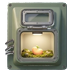
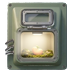
Pods masters pass 100: Home's bed cut from the Vivarium, ready chamber graded

Changed region(s): [[0.1944, 0.4444, 0.6667, 0.7778]]

diff --git a/art/station-masters/pods/tools/homefix.py b/art/station-masters/pods/tools/homefix.py
@@ -1,0 +1,31 @@
+"""Pass 100: the Station art director's two hand fixes on Home's column (second sheet, 7b37a705; no paid call). Run after tools/homecolumn.py.
+1. home-bed-{day,dusk,night}-192x56: cut from the SIGNED idle-vivarium-{day,dusk,night}-1024x568 ground band, a 192x56 moss hollow, edges feathered to clear (a superellipse alpha, 16 px feather). The art director said "the spot where the whole's bed sits": the layout's with-you bed (screen (520, 472), 128x56) maps to painting (560, 484), but there the painting is the pool and its rocks, not moss, so the cut is the clear moss on the right of the ground band, centred on (848, 480), painting rect (752, 452, 192, 56); the choice of spot is the art director's to move. Replaces the bowl.
+2. home-chamber-ready-72x72: the chamber's inner light graded by hand, brighter and creamier than the growing one: a soft cream light added inside the window opening (a radial screen, strongest at the top lamp and the middle, nothing on the housing or outside it), so it stays a light inside, never a ring.
+python3 -I tools/homefix.py -> slices/home-bed-*.png, slices/home-chamber-ready-72x72.png, marks/home-fix-proof-1x.png"""
+import os, json, hashlib
+import numpy as np
+from PIL import Image
+ROOT = os.path.dirname(os.path.dirname(os.path.abspath(__file__))); os.chdir(ROOT)
+man = json.load(open("slices/manifest.json")); W, H = 192, 56; CX, CY = 848, 480; made = []
+yy, xx = np.mgrid[0:H, 0:W]; u = np.abs((xx + 0.5 - W / 2) / (W / 2)); v = np.abs((yy + 0.5 - H / 2) / (H / 2))
+sq = (u ** 3.0 + v ** 3.0) ** (1 / 3.0); alpha = np.clip((1.0 - sq) / 0.30, 0, 1); alpha = alpha * alpha * (3 - 2 * alpha)
+for k in ("day", "dusk", "night"):
+    src = Image.open(f"slices/idle-vivarium-{k}-1024x568.png").convert("RGB").crop((CX - W // 2, CY - H // 2, CX + W // 2, CY + H // 2))
+    t = np.dstack([np.asarray(src), (alpha * 255).round().astype(np.uint8)]); n = f"home-bed-{k}-{W}x{H}"; Image.fromarray(t, "RGBA").save(f"slices/{n}.png", optimize=True); made.append(n)
+    man[n] = {"size": [W, H], "rect": None, "src": f"slices/idle-vivarium-{k}-1024x568.png (signed, gemini-3-pro-image)", "made": f"Home's bed by {k}: the moss hollow cut 192x56 from the signed Vivarium's ground band at (752, 452) on the painting (the clear moss on the right of the ground band), edges feathered to clear (pass 100)", "sha256": hashlib.sha256(open(f"slices/{n}.png", "rb").read()).hexdigest()}
+# the bowl is withdrawn: home-bed-192x56 is replaced by the day version under its own id
+Image.open("slices/home-bed-day-192x56.png").save("slices/home-bed-192x56.png", optimize=True)
+man["home-bed-192x56"] = {**man["home-bed-day-192x56"], "made": "Home's bed, the id the builder already knows: the day version (the same file as home-bed-day-192x56), replacing the bowl of pass 99 (pass 100)"}
+man["home-bed-192x56"]["sha256"] = hashlib.sha256(open("slices/home-bed-192x56.png", "rb").read()).hexdigest()
+# the ready chamber, from the cut of homecolumn.py (re-cut there, so this is idempotent)
+n = "home-chamber-ready-72x72"; a = np.asarray(Image.open(f"slices/{n}.png").convert("RGBA")).astype(float); h, w = a.shape[:2]
+Y, X = np.mgrid[0:h, 0:w]; win = np.clip((1 - np.maximum(np.abs(X - 30.0) / 17.5, np.abs(Y - 43.0) / 12.5) ** 4), 0, 1); win = win * win * (3 - 2 * win)
+rad = np.exp(-(((X - 30.0) / 17.0) ** 2 + ((Y - 41.0) / 13.0) ** 2)); cream = np.array([1.0, 0.93, 0.74]); lin = (a[..., :3] / 255.0) ** 2.2
+add = (win * (0.22 + 0.42 * rad))[..., None] * cream; out = 1 - (1 - lin) * (1 - add); a[..., :3] = np.clip(out ** (1 / 2.2) * 255, 0, 255)
+Image.fromarray(a.astype(np.uint8), "RGBA").save(f"slices/{n}.png", optimize=True)
+man[n]["made"] += "; the inner light graded brighter and creamier by hand (pass 100)"; man[n]["sha256"] = hashlib.sha256(open(f"slices/{n}.png", "rb").read()).hexdigest()
+json.dump(man, open("slices/manifest.json", "w"), indent=1)
+bg = (19, 26, 38); sheet = Image.new("RGB", (192 * 3 + 40 + 72 * 3 * 2 + 20, 130), bg); x = 8
+for k in ("day", "dusk", "night"): t = Image.open(f"slices/home-bed-{k}-192x56.png"); sheet.paste(t, (8 + (192 + 8) * ("day", "dusk", "night").index(k), 8), t)
+for i, c in enumerate(("growing", "ready")): t = Image.open(f"slices/home-chamber-{c}-72x72.png"); sheet.paste(t, (8 + i * 80, 66), t)
+sheet.save("marks/home-fix-proof-1x.png"); print("ok", made)

diff --git a/art/station-masters/pods/README.md b/art/station-masters/pods/README.md
@@ -95,16 +95,19 @@ Each slice is named by the register id it replaces (`room`, `ring`, `page`, `tra
 | `guide-panel-stamina-128x80` | 128×80 |  | new: pass 76: a Library chapter panel master, hand-drawn at its width: bark edge, faint clay grain, the ink emblem 40x40 (sealed: slats and the 8x4 notch), open ground for the tint; awaiting verdict | the chapter's shared untinted master: a bark edge, a faint clay grain, the ink emblem 40x40 at (w/2 - 20, 8), open ground for the tint; hand-drawn at 128, never scaled (pass 76) |
 | `guide-pip-unseen-6x6` | 6×6 |  | signed (art director, field guide): a hand-drawn Library field guide master | a dotted hollow pip in `clay` (corners and the pairs at the middle of each side lit, nothing inside); the unseen look's pip (pass 81, after the art director's verdict on pass 75) |
 | `guide-seal-32` | 32×32 |  | new: pass 81: redrawn after the art director's verdict on pass 75; awaiting verdict | the guide complete: a pressed paper seal, 12 even scallops typed as one quadrant and mirrored, a `sand` face, a 1 px `clay` groove ring, a `bark` keyline and a `bark` shade at the bottom right; no glint, no gold, no yellow (pass 81, after the art director's verdict on pass 75) |
-| `home-bay-open-176x72` | 176×72 |  |  | Home's section column: bay open, cut from one Pro sheet by keying the flat slate ground, trimmed and scaled uniformly (never stretched) to fit 176x72, transparent around it (pass 99, the second sheet) |
-| `home-bay-shut-176x72` | 176×72 |  |  | Home's section column: bay shut, cut from one Pro sheet by keying the flat slate ground, trimmed and scaled uniformly (never stretched) to fit 176x72, transparent around it (pass 99, the second sheet) |
-| `home-bed-192x56` | 192×56 |  |  | Home's section column: bed, cut from one Pro sheet by keying the flat slate ground, trimmed and scaled uniformly (never stretched) to fit 192x56, transparent around it (pass 99, the second sheet) |
-| `home-chamber-empty-72x72` | 72×72 |  |  | Home's section column: chamber empty, cut from one Pro sheet by keying the flat slate ground, trimmed and scaled uniformly (never stretched) to fit 72x72, transparent around it (pass 99, the second sheet) |
-| `home-chamber-growing-72x72` | 72×72 |  |  | Home's section column: chamber growing, cut from one Pro sheet by keying the flat slate ground, trimmed and scaled uniformly (never stretched) to fit 72x72, transparent around it (pass 99, the second sheet) |
-| `home-chamber-ready-72x72` | 72×72 |  |  | Home's section column: chamber ready, cut from one Pro sheet by keying the flat slate ground, trimmed and scaled uniformly (never stretched) to fit 72x72, transparent around it (pass 99, the second sheet) |
-| `home-cradle-empty-96x72` | 96×72 |  |  | Home's section column: cradle empty, cut from one Pro sheet by keying the flat slate ground, trimmed and scaled uniformly (never stretched) to fit 96x72, transparent around it (pass 99, the second sheet) |
-| `home-cradle-full-96x72` | 96×72 |  |  | Home's section column: cradle full, cut from one Pro sheet by keying the flat slate ground, trimmed and scaled uniformly (never stretched) to fit 96x72, transparent around it (pass 99, the second sheet) |
-| `home-journal-104x72` | 104×72 |  |  | Home's section column: journal, cut from one Pro sheet by keying the flat slate ground, trimmed and scaled uniformly (never stretched) to fit 104x72, transparent around it (pass 99, the second sheet) |
-| `home-well-32x32` | 32×32 |  |  | Home's section column: well, cut from one Pro sheet by keying the flat slate ground, trimmed and scaled uniformly (never stretched) to fit 32x32, transparent around it (pass 99, the second sheet) |
+| `home-bay-open-176x72` | 176×72 |  | new: pass 99: Home's section column fitting, cut from the second Pro sheet (home-column-sheet-r2; the first, pass 97, was inked and had wood), transparent around it; awaiting the art director's judgement (not signed) | Home's section column: bay open, cut from one Pro sheet by keying the flat slate ground, trimmed and scaled uniformly (never stretched) to fit 176x72, transparent around it (pass 99, the second sheet) |
+| `home-bay-shut-176x72` | 176×72 |  | new: pass 99: Home's section column fitting, cut from the second Pro sheet (home-column-sheet-r2; the first, pass 97, was inked and had wood), transparent around it; awaiting the art director's judgement (not signed) | Home's section column: bay shut, cut from one Pro sheet by keying the flat slate ground, trimmed and scaled uniformly (never stretched) to fit 176x72, transparent around it (pass 99, the second sheet) |
+| `home-bed-192x56` | 192×56 |  | new: pass 99: Home's section column fitting, cut from the second Pro sheet (home-column-sheet-r2; the first, pass 97, was inked and had wood), transparent around it; awaiting the art director's judgement (not signed) | Home's bed, the id the builder already knows: the day version (the same file as home-bed-day-192x56), replacing the bowl of pass 99 (pass 100) |
+| `home-bed-day-192x56` | 192×56 |  | new: pass 99: Home's section column fitting, cut from the second Pro sheet (home-column-sheet-r2; the first, pass 97, was inked and had wood), transparent around it; awaiting the art director's judgement (not signed) | Home's bed by day: the moss hollow cut 192x56 from the signed Vivarium's ground band at (752, 452) on the painting (the clear moss on the right of the ground band), edges feathered to clear (pass 100) |
+| `home-bed-dusk-192x56` | 192×56 |  | new: pass 99: Home's section column fitting, cut from the second Pro sheet (home-column-sheet-r2; the first, pass 97, was inked and had wood), transparent around it; awaiting the art director's judgement (not signed) | Home's bed by dusk: the moss hollow cut 192x56 from the signed Vivarium's ground band at (752, 452) on the painting (the clear moss on the right of the ground band), edges feathered to clear (pass 100) |
+| `home-bed-night-192x56` | 192×56 |  | new: pass 99: Home's section column fitting, cut from the second Pro sheet (home-column-sheet-r2; the first, pass 97, was inked and had wood), transparent around it; awaiting the art director's judgement (not signed) | Home's bed by night: the moss hollow cut 192x56 from the signed Vivarium's ground band at (752, 452) on the painting (the clear moss on the right of the ground band), edges feathered to clear (pass 100) |
+| `home-chamber-empty-72x72` | 72×72 |  | new: pass 99: Home's section column fitting, cut from the second Pro sheet (home-column-sheet-r2; the first, pass 97, was inked and had wood), transparent around it; awaiting the art director's judgement (not signed) | Home's section column: chamber empty, cut from one Pro sheet by keying the flat slate ground, trimmed and scaled uniformly (never stretched) to fit 72x72, transparent around it (pass 99, the second sheet) |
+| `home-chamber-growing-72x72` | 72×72 |  | new: pass 99: Home's section column fitting, cut from the second Pro sheet (home-column-sheet-r2; the first, pass 97, was inked and had wood), transparent around it; awaiting the art director's judgement (not signed) | Home's section column: chamber growing, cut from one Pro sheet by keying the flat slate ground, trimmed and scaled uniformly (never stretched) to fit 72x72, transparent around it (pass 99, the second sheet) |
+| `home-chamber-ready-72x72` | 72×72 |  | new: pass 99: Home's section column fitting, cut from the second Pro sheet (home-column-sheet-r2; the first, pass 97, was inked and had wood), transparent around it; awaiting the art director's judgement (not signed) | Home's section column: chamber ready, cut from one Pro sheet by keying the flat slate ground, trimmed and scaled uniformly (never stretched) to fit 72x72, transparent around it (pass 99, the second sheet); the inner light graded brighter and creamier by hand (pass 100) |
+| `home-cradle-empty-96x72` | 96×72 |  | new: pass 99: Home's section column fitting, cut from the second Pro sheet (home-column-sheet-r2; the first, pass 97, was inked and had wood), transparent around it; awaiting the art director's judgement (not signed) | Home's section column: cradle empty, cut from one Pro sheet by keying the flat slate ground, trimmed and scaled uniformly (never stretched) to fit 96x72, transparent around it (pass 99, the second sheet) |
+| `home-cradle-full-96x72` | 96×72 |  | new: pass 99: Home's section column fitting, cut from the second Pro sheet (home-column-sheet-r2; the first, pass 97, was inked and had wood), transparent around it; awaiting the art director's judgement (not signed) | Home's section column: cradle full, cut from one Pro sheet by keying the flat slate ground, trimmed and scaled uniformly (never stretched) to fit 96x72, transparent around it (pass 99, the second sheet) |
+| `home-journal-104x72` | 104×72 |  | new: pass 99: Home's section column fitting, cut from the second Pro sheet (home-column-sheet-r2; the first, pass 97, was inked and had wood), transparent around it; awaiting the art director's judgement (not signed) | Home's section column: journal, cut from one Pro sheet by keying the flat slate ground, trimmed and scaled uniformly (never stretched) to fit 104x72, transparent around it (pass 99, the second sheet) |
+| `home-well-32x32` | 32×32 |  | new: pass 99: Home's section column fitting, cut from the second Pro sheet (home-column-sheet-r2; the first, pass 97, was inked and had wood), transparent around it; awaiting the art director's judgement (not signed) | Home's section column: well, cut from one Pro sheet by keying the flat slate ground, trimmed and scaled uniformly (never stretched) to fit 32x32, transparent around it (pass 99, the second sheet) |
 | `idle-vivarium-day-1024x568` | 1024×568 |  | signed (art director, 10-10 09:27): Idle's Vivarium by light, seams softened in pass 96 (hashes a41cd5a51668 / 8ff860ffa60a / de75e05559ba); the night's cooler canopy accepted | Idle's Vivarium by day: a Pro painting of the vivarium alone (canopy band on top, ground band with burrow, water, stones and moss, feed line, mister and vent at the edges, no creatures), cropped to 1024:568 and reduced with Lanczos (pass 94) |
 | `idle-vivarium-dusk-1024x568` | 1024×568 |  | signed (art director, 10-10 09:27): Idle's Vivarium by light, seams softened in pass 96 (hashes a41cd5a51668 / 8ff860ffa60a / de75e05559ba); the night's cooler canopy accepted | Idle's Vivarium by dusk: a Pro painting of the vivarium alone (canopy band on top, ground band with burrow, water, stones and moss, feed line, mister and vent at the edges, no creatures), cropped to 1024:568 and reduced with Lanczos (the day picture's edit: dusk is warmer and lower) (pass 94) |
 | `idle-vivarium-night-1024x568` | 1024×568 |  | signed (art director, 10-10 09:27): Idle's Vivarium by light, seams softened in pass 96 (hashes a41cd5a51668 / 8ff860ffa60a / de75e05559ba); the night's cooler canopy accepted | Idle's Vivarium by night: a Pro painting of the vivarium alone (canopy band on top, ground band with burrow, water, stones and moss, feed line, mister and vent at the edges, no creatures), cropped to 1024:568 and reduced with Lanczos (an edit of the day picture: warm, low, glow-moss, the moon a cool rim only; graded x1.48 in linear light to a mean L* of 30.6) (pass 94) |
@@ -638,36 +641,15 @@ Each slice is named by the register id it replaces (`room`, `ring`, `page`, `tra
 | `ring-arc-selected-n8-s6` | 80×80 | (16, 44, 80, 80) | signed (pass 17 (the painted gauge, verdict)): the painted gauge: no jaggies at 1x or 2x, no deeper groove needed | chapter 7 of 8: the solid painted band cut by angle (clockwise from 12 o'clock) with a 1 px feathered edge; a read chapter shows this over the track |
 | `ring-arc-selected-n8-s7` | 80×80 | (16, 44, 80, 80) | signed (pass 17 (the painted gauge, verdict)): the painted gauge: no jaggies at 1x or 2x, no deeper groove needed | chapter 8 of 8: the solid painted band cut by angle (clockwise from 12 o'clock) with a 1 px feathered edge; a read chapter shows this over the track |
 | `ring-arc-selected-n8-track` | 80×80 | (16, 44, 80, 80) | signed (pass 17 (the painted gauge, verdict)): the painted gauge: no jaggies at 1x or 2x, no deeper groove needed | the painted gauge for 8 chapters: the concept's band with a soft engraved groove in its outer half (warm dark floor, soft upper-left shadow, faint lit lip lower right) and soft 1 px ticks at each chapter boundary; nothing carved by a hard mask |
-| `ring-collection-closed-176x176` | 176×176 | (·, ·, 176, 176) | signed: see Pods room (signed) | the Pods room set (pass 93): the ring closed by its worn rubber cover; one sheet painting cut at size, reduced with Lanczos, never enlarged, a hard-edged alpha feathered 1 px |
-| `ring-collection-idle-176x176` | 176×176 | (·, ·, 176, 176) | signed: see Pods room (signed) | the Pods room set (pass 93): the open ring recess at rest (the arcs sit on top); one sheet painting cut at size, reduced with Lanczos, never enlarged, a hard-edged alpha feathered 1 px |
+| `ring-collection-closed-176x176` | 176×176 | (·, ·, 176, 176) | signed (art director, Pods room verdict (68130857)): signed (art director): the Pods room in the world brief's look, the sample case of board frame 2 (passes 93, 95, 98) | the Pods room set (pass 93): the ring closed by its worn rubber cover; one sheet painting cut at size, reduced with Lanczos, never enlarged, a hard-edged alpha feathered 1 px |
+| `ring-collection-idle-176x176` | 176×176 | (·, ·, 176, 176) | signed (art director, Pods room verdict (68130857)): signed (art director): the Pods room in the world brief's look, the sample case of board frame 2 (passes 93, 95, 98) | the Pods room set (pass 93): the open ring recess at rest (the arcs sit on top); one sheet painting cut at size, reduced with Lanczos, never enlarged, a hard-edged alpha feathered 1 px |
 | `ring-hatch` | 112×56 | (0, 488, 112, 56) | withdrawn: the 112x56 slice of the earlier layout; replaced by ring-hatch-80x56 | a leaf etched into the column glass (colour-to-alpha), 24 px leaf centred, no box |
-| `ring-hatch-80x56` | 80×56 | (16, 488, 80, 56) | signed: see Pods room (signed) | the Pods room set (pass 93): the closed gasketed service hatch in the housing's sage; one sheet painting cut at size, reduced with Lanczos, never enlarged, a hard-edged alpha feathered 1 px |
-| `ring-kin-56x56` | 56×56 | (·, ·, 56, 56) | signed: see Pods room (signed) | the Pods room set (pass 93): the small fitted round recess; one sheet painting cut at size, reduced with Lanczos, never enlarged, a hard-edged alpha feathered 1 px |
+| `ring-hatch-80x56` | 80×56 | (16, 488, 80, 56) | signed (art director, Pods room verdict (68130857)): signed (art director): the Pods room in the world brief's look, the sample case of board frame 2 (passes 93, 95, 98) | the Pods room set (pass 93): the closed gasketed service hatch in the housing's sage; one sheet painting cut at size, reduced with Lanczos, never enlarged, a hard-edged alpha feathered 1 px |
+| `ring-kin-56x56` | 56×56 | (·, ·, 56, 56) | signed (art director, Pods room verdict (68130857)): signed (art director): the Pods room in the world brief's look, the sample case of board frame 2 (passes 93, 95, 98) | the Pods room set (pass 93): the small fitted round recess; one sheet painting cut at size, reduced with Lanczos, never enlarged, a hard-edged alpha feathered 1 px |
 | `ring-well-empty` | 64×64 | (40, 52, 64, 64) | withdrawn: the 64x64 slice; re-exported as ring-well-empty-80x80 (the art director: pad to 80x80 centred on (40,40)) | colour-to-alpha on the flat ground, the ring cut square, 64x64 (hollow) |
-| `ring-well-empty-80x80` | 80×80 | (16, 44, 80, 80) | signed: see Pods room (signed) | the Pods room set (pass 93): the unused well: a smooth rubber plug seated nearly flush; one sheet painting cut at size, reduced with Lanczos, never enlarged, a hard-edged alpha feathered 1 px |
-| `ring-well-idle-80x80` | 80×80 | (16, 44, 80, 80) | signed: see Pods room (signed) | the Pods room set (pass 93): the well at rest: a matte rubber-edged circular recess in the case, empty; one sheet painting cut at size, reduced with Lanczos, never enlarged, a hard-edged alpha feathered 1 px |
-| `ring-well-selected-80x80` | 80×80 | (16, 44, 80, 80) | signed: see Pods room (signed) | the Pods room set (pass 93): the same well with its rubber rim catching more warm light (the focus ring is composed in code over it); one sheet painting cut at size, reduced with Lanczos, never enlarged, a hard-edged alpha feathered 1 px |
-
-### Pods room (signed)
-
-| Slice id | Size | Rect on the screen | Status | Made by |
-| --- | --- | --- | --- | --- |
-| `room-bench-stage` | 1024×522 | (0, 40, 1024, 522) | signed (art director): the Pods room in the world brief's look, the sample case of board frame 2 (passes 93, 95, 98) | studio passes 93, 95, 98 |
-| `room-bench-stage-overview` | 1024×522 | (0, 40, 1024, 522) | signed (art director): the Pods room in the world brief's look, the sample case of board frame 2 (passes 93, 95, 98) | studio passes 93, 95, 98 |
-| `room-bench-stage-chapter` | 1024×522 | (0, 40, 1024, 522) | signed (art director): the Pods room in the world brief's look, the sample case of board frame 2 (passes 93, 95, 98) | studio passes 93, 95, 98 |
-| `room-bench-stage-collection` | 1024×522 | (0, 40, 1024, 522) | signed (art director): the Pods room in the world brief's look, the sample case of board frame 2 (passes 93, 95, 98) | studio passes 93, 95, 98 |
-| `room-cradle` | 224×96 | (520, 328, 224, 96) | signed (art director): the Pods room in the world brief's look, the sample case of board frame 2 (passes 93, 95, 98) | studio passes 93, 95, 98 |
-| `room-cradle-front` | 224×96 | (520, 328, 224, 96) | signed (art director): the Pods room in the world brief's look, the sample case of board frame 2 (passes 93, 95, 98) | studio passes 93, 95, 98 |
-| `room-shelf` | 288×72 | (488, 368, 288, 72) | signed (art director): the Pods room in the world brief's look, the sample case of board frame 2 (passes 93, 95, 98) | studio passes 93, 95, 98 |
-| `room-stamp-case-152x152` | 152×152 | (856, 232, 152, 152) | signed (art director): the Pods room in the world brief's look, the sample case of board frame 2 (passes 93, 95, 98) | studio passes 93, 95, 98 |
-| `room-stamp-case-152x152-front` | 152×152 | (856, 232, 152, 152) | signed (art director): the Pods room in the world brief's look, the sample case of board frame 2 (passes 93, 95, 98) | studio passes 93, 95, 98 |
-| `ring-well-idle-80x80` | 80×80 | (16, 44, 80, 80) | signed (art director): the Pods room in the world brief's look, the sample case of board frame 2 (passes 93, 95, 98) | studio passes 93, 95, 98 |
-| `ring-well-selected-80x80` | 80×80 | (16, 44, 80, 80) | signed (art director): the Pods room in the world brief's look, the sample case of board frame 2 (passes 93, 95, 98) | studio passes 93, 95, 98 |
-| `ring-well-empty-80x80` | 80×80 | (16, 44, 80, 80) | signed (art director): the Pods room in the world brief's look, the sample case of board frame 2 (passes 93, 95, 98) | studio passes 93, 95, 98 |
-| `ring-hatch-80x56` | 80×56 | (16, 488, 80, 56) | signed (art director): the Pods room in the world brief's look, the sample case of board frame 2 (passes 93, 95, 98) | studio passes 93, 95, 98 |
-| `ring-collection-idle-176x176` | 176×176 | (·, ·, 176, 176) | signed (art director): the Pods room in the world brief's look, the sample case of board frame 2 (passes 93, 95, 98) | studio passes 93, 95, 98 |
-| `ring-collection-closed-176x176` | 176×176 | (·, ·, 176, 176) | signed (art director): the Pods room in the world brief's look, the sample case of board frame 2 (passes 93, 95, 98) | studio passes 93, 95, 98 |
-| `ring-kin-56x56` | 56×56 | (·, ·, 56, 56) | signed (art director): the Pods room in the world brief's look, the sample case of board frame 2 (passes 93, 95, 98) | studio passes 93, 95, 98 |
+| `ring-well-empty-80x80` | 80×80 | (16, 44, 80, 80) | signed (art director, Pods room verdict (68130857)): signed (art director): the Pods room in the world brief's look, the sample case of board frame 2 (passes 93, 95, 98) | the Pods room set (pass 93): the unused well: a smooth rubber plug seated nearly flush; one sheet painting cut at size, reduced with Lanczos, never enlarged, a hard-edged alpha feathered 1 px |
+| `ring-well-idle-80x80` | 80×80 | (16, 44, 80, 80) | signed (art director, Pods room verdict (68130857)): signed (art director): the Pods room in the world brief's look, the sample case of board frame 2 (passes 93, 95, 98) | the Pods room set (pass 93): the well at rest: a matte rubber-edged circular recess in the case, empty; one sheet painting cut at size, reduced with Lanczos, never enlarged, a hard-edged alpha feathered 1 px |
+| `ring-well-selected-80x80` | 80×80 | (16, 44, 80, 80) | signed (art director, Pods room verdict (68130857)): signed (art director): the Pods room in the world brief's look, the sample case of board frame 2 (passes 93, 95, 98) | the Pods room set (pass 93): the same well with its rubber rim catching more warm light (the focus ring is composed in code over it); one sheet painting cut at size, reduced with Lanczos, never enlarged, a hard-edged alpha feathered 1 px |
 
 ### List column plate (signed)
 
@@ -680,17 +662,17 @@ Each slice is named by the register id it replaces (`room`, `ring`, `page`, `tra
 
 | Slice id | Size | Rect on the screen | Status | Made by |
 | --- | --- | --- | --- | --- |
-| `room-bench-stage` | 1024×522 | (0, 40, 1024, 522) | signed: see Pods room (signed) | the Pods room set, the redo (pass 95): the case's floor, the stage under everything: the housing rim at the edges, warm dark foam, hoses, a vent and a small gauge at the margins, no cut-outs; a Pro painting (pods-floor.jpg), 1024x522; the pods are placed by the renderer, never painted in |
-| `room-bench-stage-chapter` | 1024×522 | (0, 40, 1024, 522) | signed: see Pods room (signed) | the Pods room set, the redo (pass 95): the chapter stage: the floor with the nest on the axis x 216 and a warm matte slate page panel to the right (424, 72, 584, 440); composed; the pods are placed by the renderer, never painted in |
-| `room-bench-stage-collection` | 1024×522 | (0, 40, 1024, 522) | signed: see Pods room (signed) | the Pods room set, the redo (pass 95): the collection stage: the floor with six nests at the six places' centres; composed; the pods are placed by the renderer, never painted in |
+| `room-bench-stage` | 1024×522 | (0, 40, 1024, 522) | signed (art director, Pods room verdict (68130857)): signed (art director): the Pods room in the world brief's look, the sample case of board frame 2 (passes 93, 95, 98) | the Pods room set, the redo (pass 95): the case's floor, the stage under everything: the housing rim at the edges, warm dark foam, hoses, a vent and a small gauge at the margins, no cut-outs; a Pro painting (pods-floor.jpg), 1024x522; the pods are placed by the renderer, never painted in |
+| `room-bench-stage-chapter` | 1024×522 | (0, 40, 1024, 522) | signed (art director, Pods room verdict (68130857)): signed (art director): the Pods room in the world brief's look, the sample case of board frame 2 (passes 93, 95, 98) | the Pods room set, the redo (pass 95): the chapter stage: the floor with the nest on the axis x 216 and a warm matte slate page panel to the right (424, 72, 584, 440); composed; the pods are placed by the renderer, never painted in |
+| `room-bench-stage-collection` | 1024×522 | (0, 40, 1024, 522) | signed (art director, Pods room verdict (68130857)): signed (art director): the Pods room in the world brief's look, the sample case of board frame 2 (passes 93, 95, 98) | the Pods room set, the redo (pass 95): the collection stage: the floor with six nests at the six places' centres; composed; the pods are placed by the renderer, never painted in |
 | `room-bench-stage-compare` | 1024×522 | (0, 40, 1024, 522) | signed (pass 48 verdict): Compare's bench from the chapter's own wall | Compare's bench: the chapter bench without the beam and the dish glow (two pages on the pane, no pod on stage): the same generated glass wall windowed inside its own left strip so no cone or pool shows, graded as the others with the vignette centred on x 512 |
-| `room-bench-stage-overview` | 1024×522 | (0, 40, 1024, 522) | signed: see Pods room (signed) | the Pods room set, the redo (pass 95): the overview stage: the floor with ONE fitted egg-shaped nest (about 150x96, uniformly scaled) on the pod axis x 256, the stamp plate at (856, 344) and a plain warm slate panel at the right; composed from three Pro paintings; the pods are placed by the renderer, never painted in |
-| `room-cradle` | 224×96 | (520, 328, 224, 96) | signed: see Pods room (signed) | the Pods room set, the redo (pass 95): the pod's fitted nest (224x96), cut from the composed overview at (144, 288); the pods are placed by the renderer, never painted in |
-| `room-cradle-front` | 224×96 | (520, 328, 224, 96) | signed: see Pods room (signed) | the Pods room set, the redo (pass 95): the nest's near rim as a separate layer (RGBA 224x96): the lower arc of the egg's rim, cut from the cradle; the pods are placed by the renderer, never painted in |
-| `room-shelf` | 288×72 | (488, 368, 288, 72) | signed: see Pods room (signed) | the Pods room set, the redo (pass 95): the case floor under the cradle (288x72), cut from the composed overview at (112, 328); the pods are placed by the renderer, never painted in |
+| `room-bench-stage-overview` | 1024×522 | (0, 40, 1024, 522) | signed (art director, Pods room verdict (68130857)): signed (art director): the Pods room in the world brief's look, the sample case of board frame 2 (passes 93, 95, 98) | the Pods room set, the redo (pass 95): the overview stage: the floor with ONE fitted egg-shaped nest (about 150x96, uniformly scaled) on the pod axis x 256, the stamp plate at (856, 344) and a plain warm slate panel at the right; composed from three Pro paintings; the pods are placed by the renderer, never painted in |
+| `room-cradle` | 224×96 | (520, 328, 224, 96) | signed (art director, Pods room verdict (68130857)): signed (art director): the Pods room in the world brief's look, the sample case of board frame 2 (passes 93, 95, 98) | the Pods room set, the redo (pass 95): the pod's fitted nest (224x96), cut from the composed overview at (144, 288); the pods are placed by the renderer, never painted in |
+| `room-cradle-front` | 224×96 | (520, 328, 224, 96) | signed (art director, Pods room verdict (68130857)): signed (art director): the Pods room in the world brief's look, the sample case of board frame 2 (passes 93, 95, 98) | the Pods room set, the redo (pass 95): the nest's near rim as a separate layer (RGBA 224x96): the lower arc of the egg's rim, cut from the cradle; the pods are placed by the renderer, never painted in |
+| `room-shelf` | 288×72 | (488, 368, 288, 72) | signed (art director, Pods room verdict (68130857)): signed (art director): the Pods room in the world brief's look, the sample case of board frame 2 (passes 93, 95, 98) | the Pods room set, the redo (pass 95): the case floor under the cradle (288x72), cut from the composed overview at (112, 328); the pods are placed by the renderer, never painted in |
 | `room-stamp-case` | 176×328 | (848, 144, 176, 328) | withdrawn: the old 176x328 size; the case is now 152x152 | the dim unlit glass case: translucent (the wall's seams show through), a faint diagonal sheen, dim brushed-metal rails, open at the right |
-| `room-stamp-case-152x152` | 152×152 | (856, 232, 152, 152) | signed: see Pods room (signed) | the Pods room set, the redo (pass 95): the small dim unlit matte stamp plate set into the housing, painted (pods-plate.jpg), cut at (856, 344); the pods are placed by the renderer, never painted in |
-| `room-stamp-case-152x152-front` | 152×152 | (856, 232, 152, 152) | signed: see Pods room (signed) | the Pods room set, the redo (pass 95): the plate's rim only (RGBA 152x152, the opening transparent, no glass); the pods are placed by the renderer, never painted in |
+| `room-stamp-case-152x152` | 152×152 | (856, 232, 152, 152) | signed (art director, Pods room verdict (68130857)): signed (art director): the Pods room in the world brief's look, the sample case of board frame 2 (passes 93, 95, 98) | the Pods room set, the redo (pass 95): the small dim unlit matte stamp plate set into the housing, painted (pods-plate.jpg), cut at (856, 344); the pods are placed by the renderer, never painted in |
+| `room-stamp-case-152x152-front` | 152×152 | (856, 232, 152, 152) | signed (art director, Pods room verdict (68130857)): signed (art director): the Pods room in the world brief's look, the sample case of board frame 2 (passes 93, 95, 98) | the Pods room set, the redo (pass 95): the plate's rim only (RGBA 152x152, the opening transparent, no glass); the pods are placed by the renderer, never painted in |
 
 ### Stamp label (signed)
 
@@ -753,6 +735,10 @@ Each slice is named by the register id it replaces (`room`, `ring`, `page`, `tra
 | `trait-picture-frame-376x264-unread` | 376×264 |  | withdrawn (pass 59 verdict): withdrawn with the pane (the withdrawal signed by the art director): the open chapter page (origin/design-pods-open d00f372a) has no per-cell frame and no stand-in card; nothing more is cut for it (the pass 58 sill frames were never signed) | frost texture at 0.9 alpha under the frame (pass 58: bottom rail deepened to a 20 px sill between the side rails (columns 9 to 365): the rails' body colour (60, 77, 92), opaque, flat, no ornament; its top edge is the top rail's inner profile mirrored; the rails keep their full profile to the bottom edge, with the old rail's two dark bottom rows) |
 
 <!-- end of the generated Slices section -->
+
+## Pass 100 - Home's column, the bed and the ready chamber
+
+The Station art director's two hand fixes on 7b37a705, no paid call ([`tools/homefix.py`](tools/homefix.py), run after `tools/homecolumn.py`). (1) The bowl is dropped: `home-bed-{day,dusk,night}-192x56` are cut from the signed Idle's Vivarium (the day, dusk and night paintings) as a 192x56 moss hollow with a 16 px superellipse feather to clear; `home-bed-192x56` is the day one under the id the builder knows. The layout's with-you bed maps to painting (560, 484), but there the painting is the pool and its rocks, so I cut the clear moss on the right of the ground band (painting rect (752, 452, 192, 56)); the spot is the art director's to move. (2) `home-chamber-ready-72x72`: the inner light graded by hand, a soft cream light added inside the window opening (radial, strongest at the lamp and the middle, nothing on the housing), so it is brighter and creamier than the growing chamber and the bean still shows. New hashes (sha256 prefix): home-bed-day-192x56 ce8024889e87, home-bed-dusk-192x56 61cdc351cdac, home-bed-night-192x56 1c845078951f, home-bed-192x56 ce8024889e87, home-chamber-ready-72x72 bf245c0c2874. All `new`; the bays are left as they are (the art director accepts them under-filling; they are centred). Proof on the slate at 1x: `marks/home-fix-proof-1x.png`.
 
 ## Pass 99 - Home's section column, the second sheet
 
